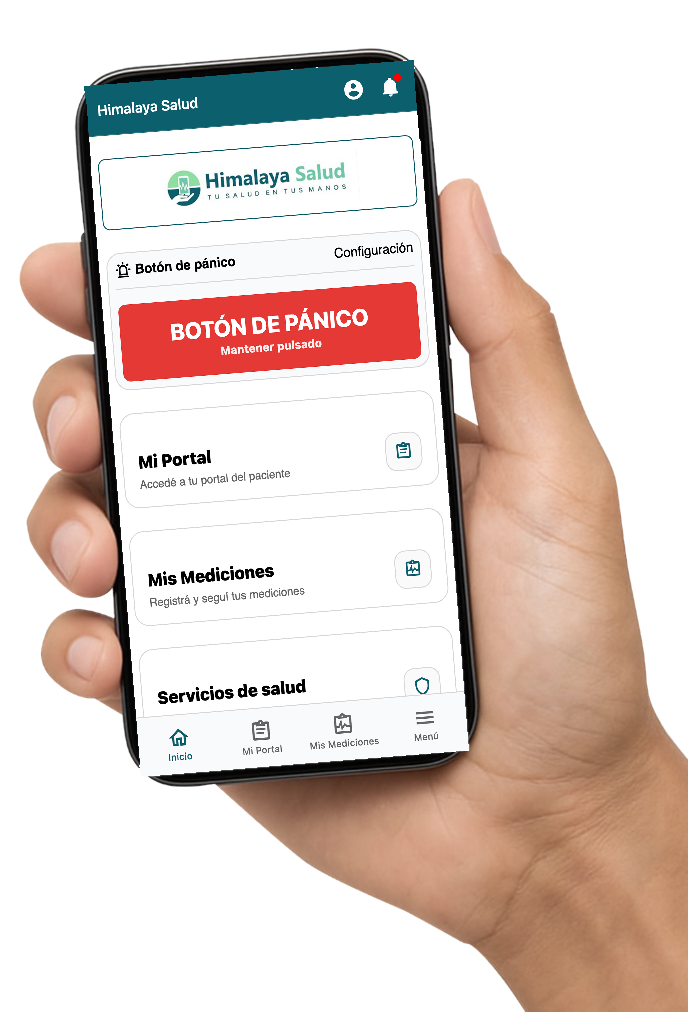
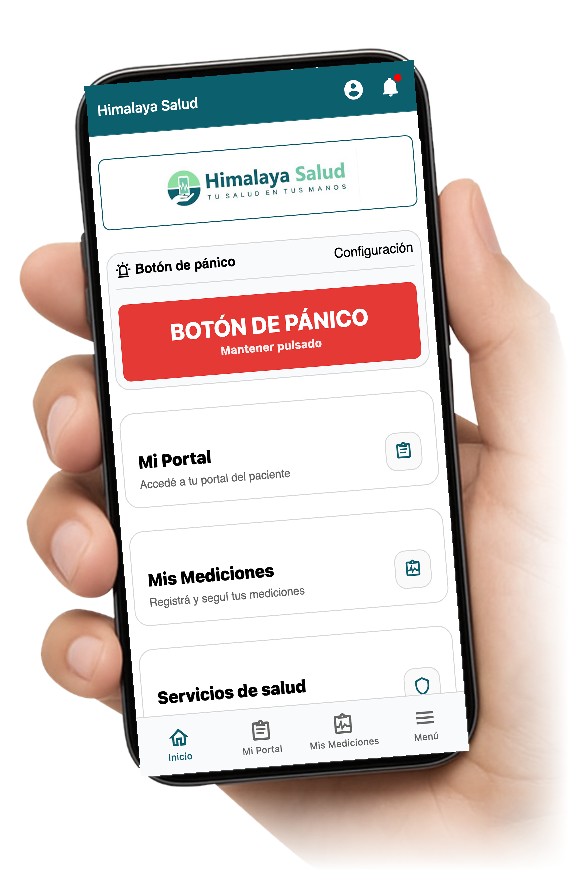
fix: recortar y desvanecer la mano del hero como en el deck
Mismo tratamiento que el generador del deck de seguros (HAND_CROP
568x870 + fade de 80px en filo derecho e inferior), fundiendo a
transparente: el vértice inferior derecho deja de cortar cuadrado.
Anchos de render ajustados en proporción para que el teléfono quede
del mismo tamaño.

Claude-Session: https://claude.ai/code/session_01FyQDXDvyMdWWXFbMVtPV4z

diff --git a/src/app/page.tsx b/src/app/page.tsx
@@ -530,11 +530,11 @@ function HomeFull() {
               <Image
                 src="/images/app/mano-inicio-clara.png"
                 alt="Mano sosteniendo la app Himalaya Salud en la pantalla de inicio"
-                width={688}
-                height={1012}
+                width={568}
+                height={870}
                 priority
-                sizes="(max-width: 640px) 300px, (max-width: 1024px) 360px, 420px"
-                className="float-y h-auto w-[300px] sm:w-[360px] lg:w-[420px]"
+                sizes="(max-width: 640px) 250px, (max-width: 1024px) 300px, 345px"
+                className="float-y h-auto w-[250px] sm:w-[300px] lg:w-[345px]"
               />
               <div
                 className="absolute right-0 top-16 flex items-center gap-3"
